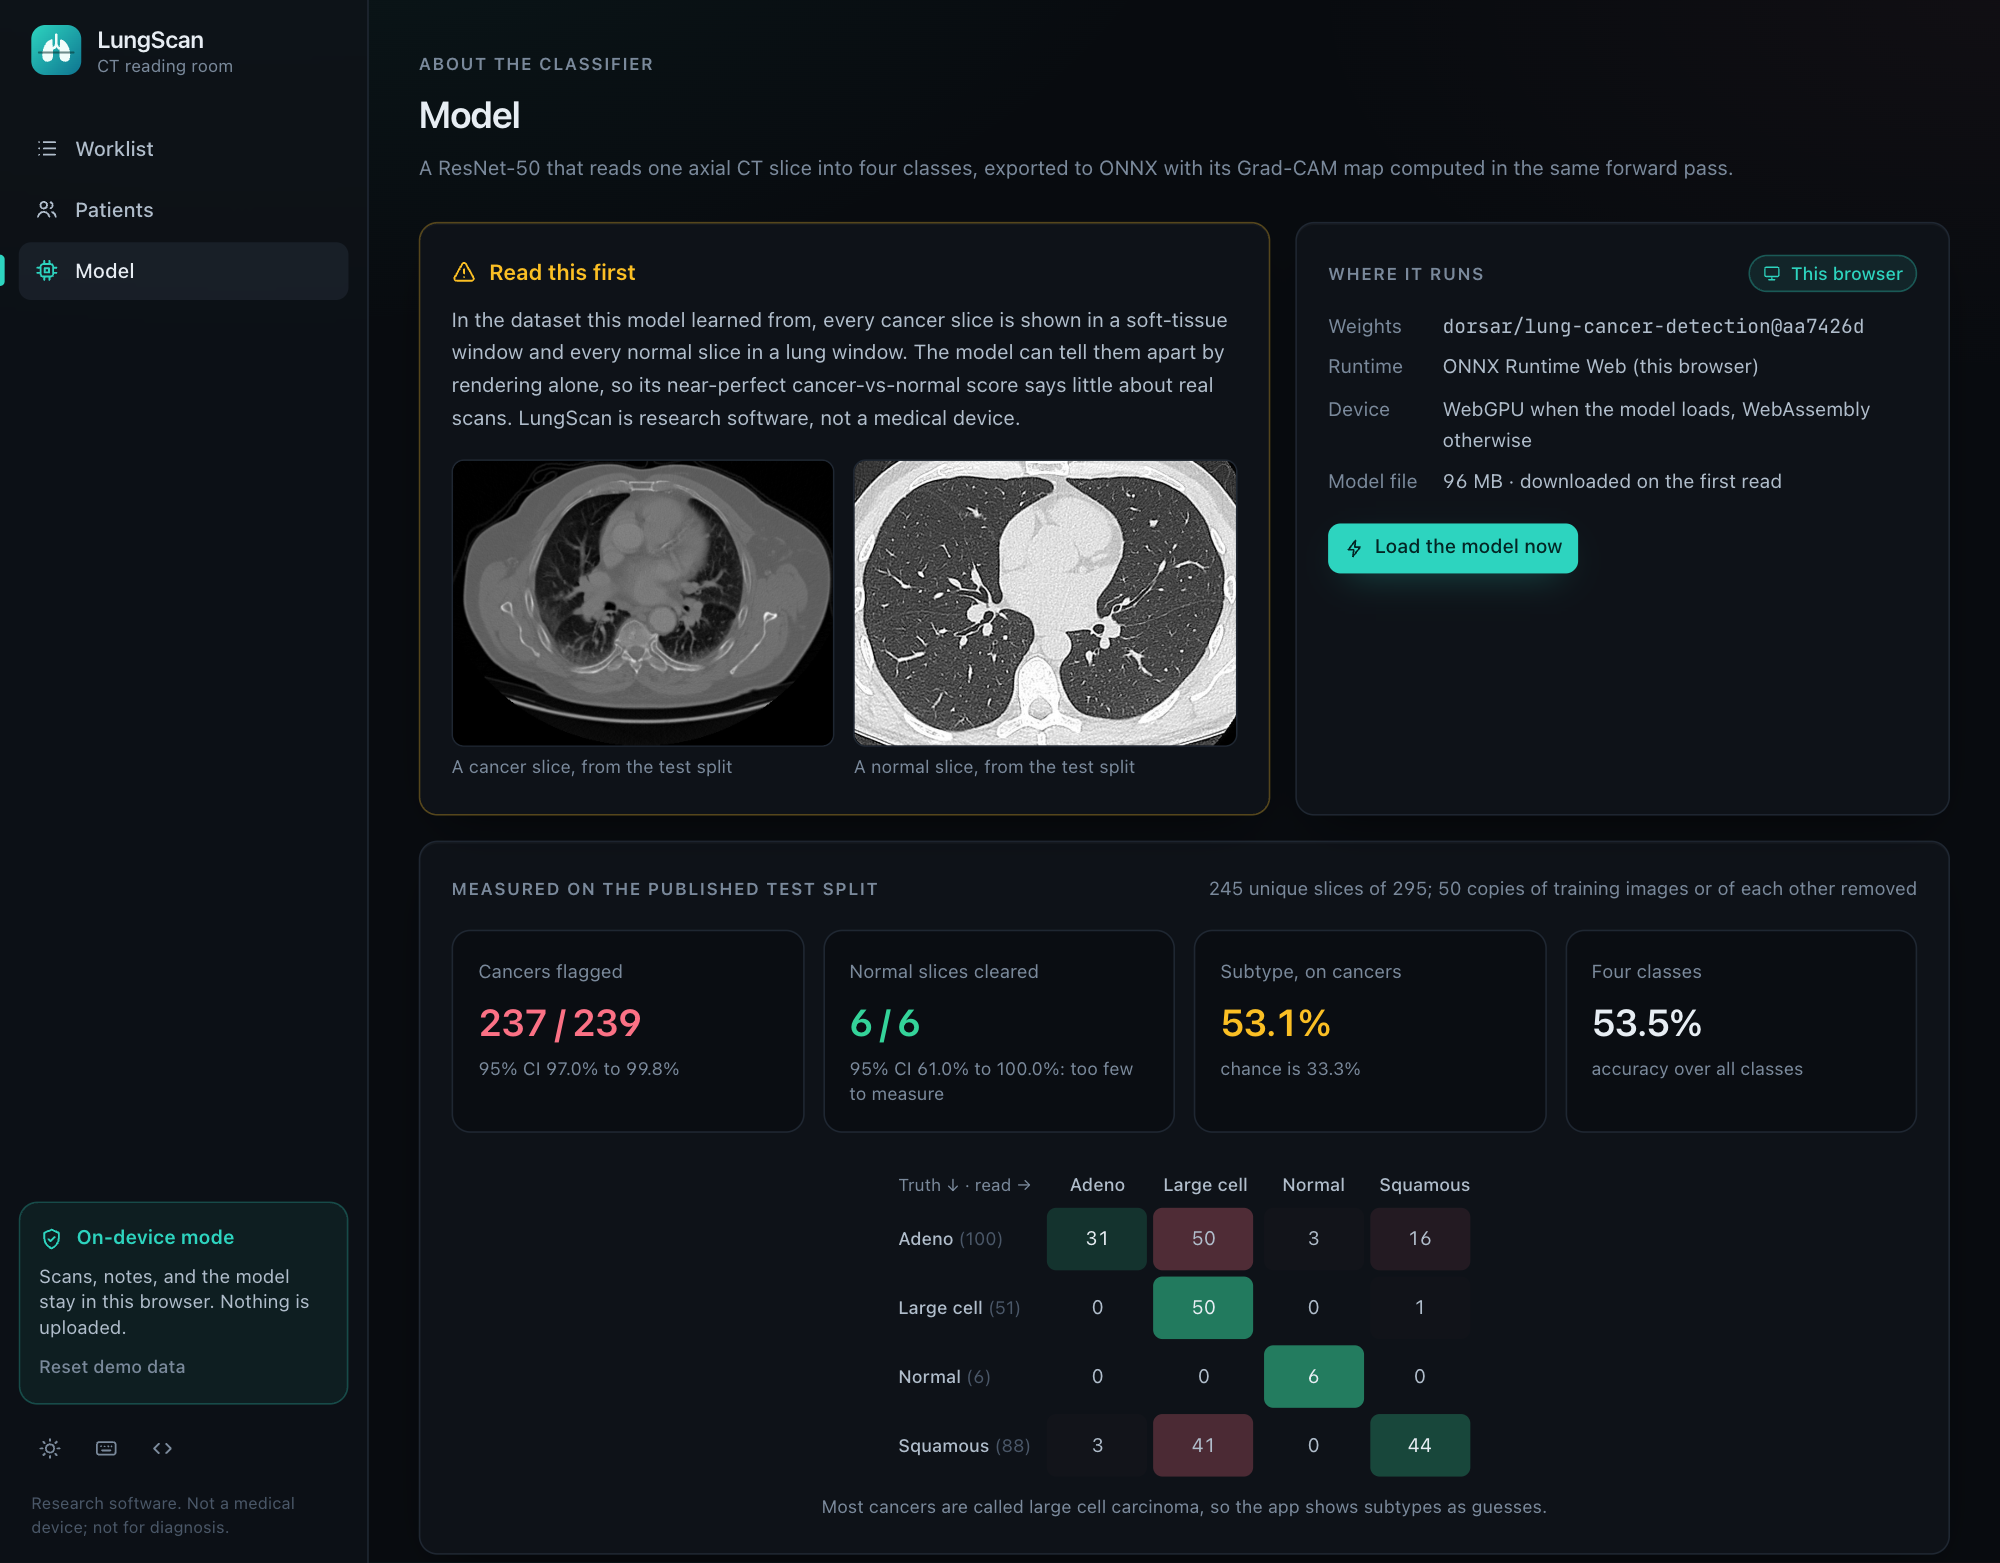
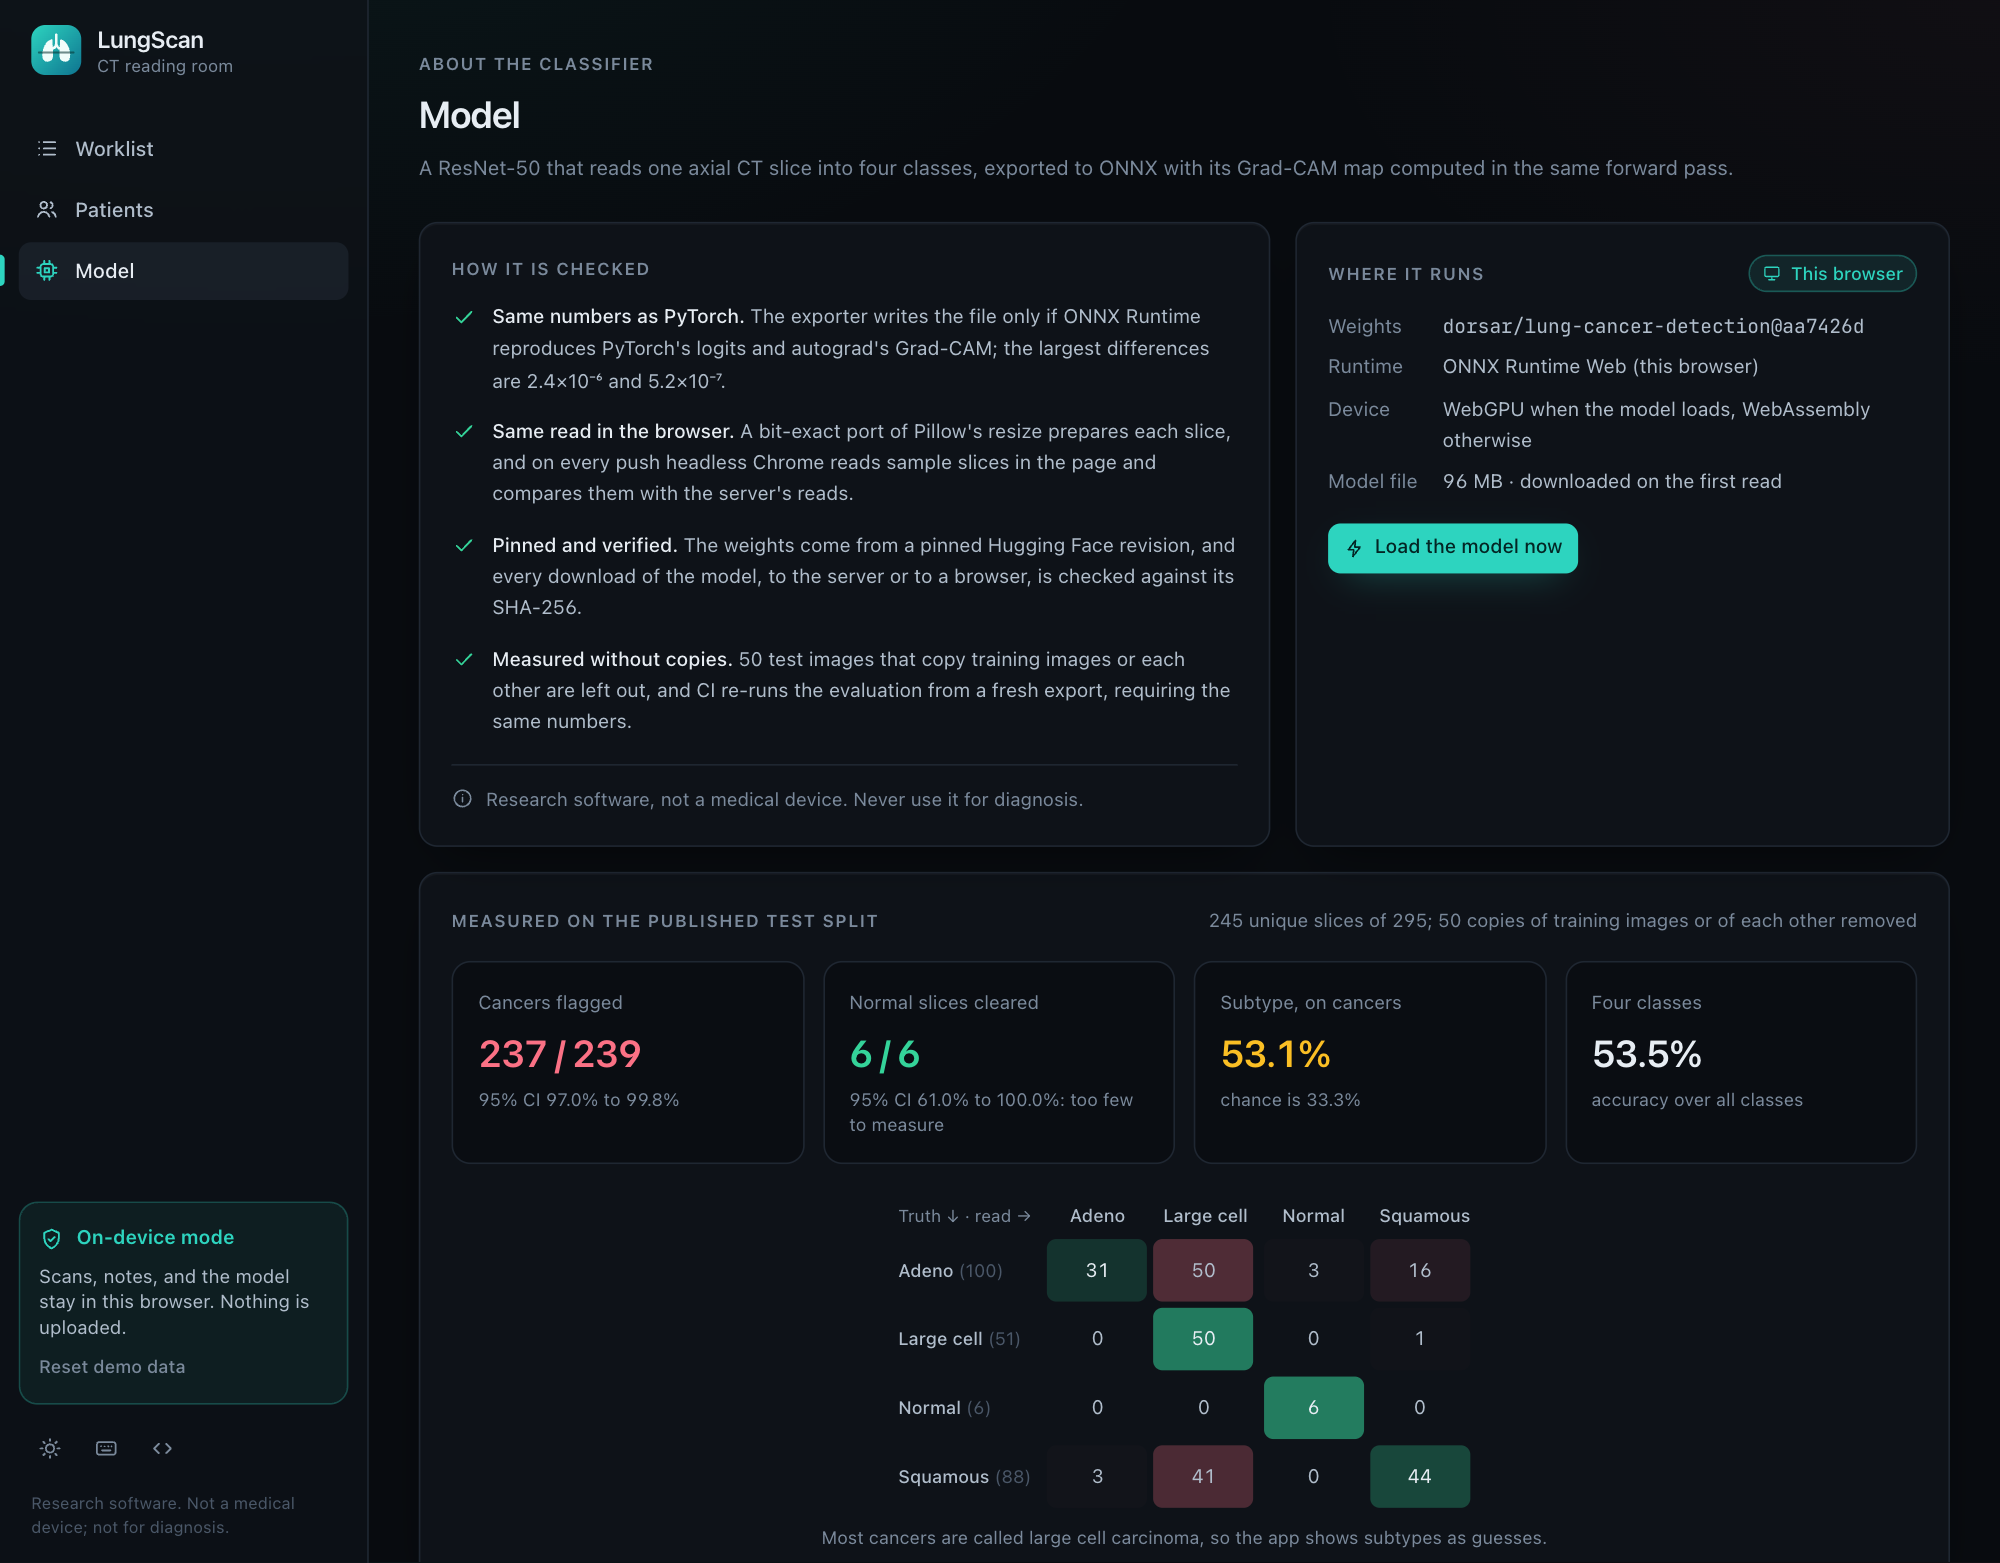
fix: Stop claiming the classifier relies on how slices were rendered
The README, the model card, and the model page said the classifier most
likely separates cancer from normal slices by their rendering. No
experiment tested that, so the claim goes.

The model page's warning card becomes "How it is checked": the export's
match with PyTorch and autograd, the bit-exact preprocessing and the
in-page reads compared with the server's, the pinned weights and SHA-256
checks, and the deduplicated evaluation. The research-software notice
stays on the page, in the README, and in the model card.

The README's results section becomes "Measured performance", and its
limits keep to what was measured: one public dataset of 2D slices, six
normal slices, and the subtype's accuracy. The model page screenshot is
retaken.

diff --git a/frontend/src/app/model/page.tsx b/frontend/src/app/model/page.tsx
@@ -8,7 +8,7 @@ import Icon from "@/components/ui/Icon";
 import Spinner from "@/components/ui/Spinner";
 import { Chip } from "@/components/ui/Status";
 import { api, type ModelStatus } from "@/lib/api";
-import { REPO_URL, RUNTIME, asset } from "@/lib/config";
+import { REPO_URL, RUNTIME } from "@/lib/config";
 import { megabytes, percent } from "@/lib/format";
 import { useEvaluation } from "@/lib/hooks";
 import { engine, type EngineProgress } from "@/lib/inference/engine";
@@ -150,6 +150,48 @@ function Runtime() {
   );
 }
 
+function Checks({ removed }: { removed: number | null }) {
+  const checks = [
+    [
+      "Same numbers as PyTorch",
+      "The exporter writes the file only if ONNX Runtime reproduces PyTorch's logits and autograd's Grad-CAM; the largest differences are 2.4×10⁻⁶ and 5.2×10⁻⁷.",
+    ],
+    [
+      "Same read in the browser",
+      "A bit-exact port of Pillow's resize prepares each slice, and on every push headless Chrome reads sample slices in the page and compares them with the server's reads.",
+    ],
+    [
+      "Pinned and verified",
+      "The weights come from a pinned Hugging Face revision, and every download of the model, to the server or to a browser, is checked against its SHA-256.",
+    ],
+    [
+      "Measured without copies",
+      `${removed ?? "The"} test images that copy training images or each other are left out, and CI re-runs the evaluation from a fresh export, requiring the same numbers.`,
+    ],
+  ];
+
+  return (
+    <section className="panel p-5">
+      <h2 className="eyebrow">How it is checked</h2>
+      <ul className="mt-3 space-y-3 text-[12.5px] leading-relaxed text-ink-2">
+        {checks.map(([title, text]) => (
+          <li key={title} className="flex gap-2.5">
+            <Icon name="check" className="mt-0.5 h-4 w-4 flex-none text-clear" />
+            <span>
+              <span className="font-medium text-ink">{title}. </span>
+              {text}
+            </span>
+          </li>
+        ))}
+      </ul>
+      <p className="mt-4 flex items-center gap-2 border-t border-line pt-3 text-[12px] text-muted">
+        <Icon name="info" className="h-3.5 w-3.5 flex-none" />
+        Research software, not a medical device. Never use it for diagnosis.
+      </p>
+    </section>
+  );
+}
+
 export default function ModelPage() {
   const evaluation = useEvaluation();
   const clean = evaluation?.clean_test;
@@ -167,35 +209,7 @@ export default function ModelPage() {
       </PageHeader>
 
       <div className="mt-6 grid gap-4 lg:grid-cols-[1.3fr_1fr]">
-        <section className="panel border-caution/30 p-5">
-          <h2 className="flex items-center gap-2 text-[14px] font-semibold text-caution">
-            <Icon name="alert" /> Read this first
-          </h2>
-          <p className="mt-2 text-[13px] leading-relaxed text-ink-2">
-            In the dataset this model learned from, every cancer slice is shown in a soft-tissue
-            window and every normal slice in a lung window. The model can tell them apart by
-            rendering alone, so its near-perfect cancer-vs-normal score says little about real
-            scans. LungScan is research software, not a medical device.
-          </p>
-          <div className="mt-4 grid grid-cols-2 gap-3">
-            {[
-              ["sample-02", "A cancer slice"],
-              ["sample-04", "A normal slice"],
-            ].map(([id, caption]) => (
-              <figure key={id}>
-                {/* eslint-disable-next-line @next/next/no-img-element -- static sample */}
-                <img
-                  src={asset(`samples/images/${id}.png`)}
-                  alt={caption}
-                  className="aspect-[4/3] w-full rounded-lg border border-line bg-viewer object-cover"
-                />
-                <figcaption className="mt-1 text-[11.5px] text-muted">
-                  {caption}, from the test split
-                </figcaption>
-              </figure>
-            ))}
-          </div>
-        </section>
+        <Checks removed={evaluation ? removed : null} />
         <Runtime />
       </div>
 

diff --git a/README.md b/README.md
@@ -14,7 +14,7 @@
 LungScan is a reading room for lung CT: a worklist, a PACS-style viewer, and a model that reads each axial slice for cancer and shows where its evidence lies. The model is a ResNet-50 exported to ONNX with its Grad-CAM map computed in the same forward pass, so one file serves both ways the app runs: behind a FastAPI server with ONNX Runtime, or entirely in the browser with ONNX Runtime Web, where scans never leave the page. The repository also holds the 3D nodule segmentation research of the SENSERA report, which reaches a tumor Dice of 0.73 with VISTA-3D and a false-positive classifier.
 
 > [!IMPORTANT]
-> LungScan is research software, not a medical device. Its classifier separates this dataset's cancer slices from its normal ones almost perfectly, most likely by how the slices were rendered rather than by what they show ([details](#what-the-model-can-and-cannot-do)). Never use it for diagnosis.
+> LungScan is research software, not a medical device. Never use it for diagnosis.
 
 <p align="center">
   <a href="https://adriantrill.github.io/LungScan/"><img src="docs/assets/demo.gif" width="857" alt="The live demo: a sample study with its precomputed read, then a read in the page, where the model is downloaded, checked, and run on WebGPU, and Grad-CAM marks the region that raised the cancer score"></a>
@@ -29,10 +29,10 @@ LungScan is a reading room for lung CT: a worklist, a PACS-style viewer, and a m
 | **[In your browser](#in-your-browser)** | The whole app in the page: IndexedDB for the data, ONNX Runtime Web on WebGPU or WebAssembly for the model, which downloads once | The same run reads slices in the page and compares them with the server's reads |
 | **[One model, two runtimes](#one-model-two-runtimes)** | One ONNX file on the server and in the browser; the browser's preprocessing is a bit-exact port of Pillow 13's resize | Jest tests against fixtures written by the server's own code |
 | **[Grad-CAM in one pass](#grad-cam-in-one-forward-pass)** | The classifier head's gradient, computed inside the graph, so the browser needs no backward pass | The export must match autograd's Grad-CAM before it is written |
-| **[Measured, not quoted](#what-the-model-can-and-cannot-do)** | An evaluation on the published test split, after removing the 50 test images that copy training images or each other | CI re-runs it from a fresh export and requires the same numbers |
+| **[Measured, not quoted](#measured-performance)** | An evaluation on the published test split, after removing the 50 test images that copy training images or each other | CI re-runs it from a fresh export and requires the same numbers |
 | **[3D segmentation research](#3d-segmentation-research)** | VISTA-3D with a "Shadow Mining" false-positive classifier, and radiogenomic biomarker prediction | Reported in the SENSERA report |
 
-**Contents:** [Try it](#try-it) · [Reading room](#the-reading-room) · [In your browser](#in-your-browser) · [Two runtimes](#one-model-two-runtimes) · [Grad-CAM](#grad-cam-in-one-forward-pass) · [Limits](#what-the-model-can-and-cannot-do) · [Research](#3d-segmentation-research) · [Layout](#repository-layout) · [Run locally](#run-it-locally) · [API](#api) · [Tests and CI](#tests-and-ci) · [Credits](#credits)
+**Contents:** [Try it](#try-it) · [Reading room](#the-reading-room) · [In your browser](#in-your-browser) · [Two runtimes](#one-model-two-runtimes) · [Grad-CAM](#grad-cam-in-one-forward-pass) · [Performance](#measured-performance) · [Research](#3d-segmentation-research) · [Layout](#repository-layout) · [Run locally](#run-it-locally) · [API](#api) · [Tests and CI](#tests-and-ci) · [Credits](#credits)
 
 ## Try it
 
@@ -118,7 +118,7 @@ Grad-CAM needs the gradient of a score with respect to the last feature maps, an
 
 [`ExplainedNet`](backend/tools/network.py) adds these steps to the network before export. The exporter refuses to write the file unless ONNX Runtime matches PyTorch's logits (largest difference 2.4×10⁻⁶) and the map matches autograd's Grad-CAM (5.2×10⁻⁷), and a unit test checks the identity on random weights. The model card, [docs/MODEL.md](docs/MODEL.md), has the details.
 
-## What the model can and cannot do
+## Measured performance
 
 The classifier is [dorsar/lung-cancer-detection](https://huggingface.co/dorsar/lung-cancer-detection) (MIT), a ResNet-50 fine-tuned on 2D slices in four classes. [`tools/evaluate.py`](backend/tools/evaluate.py) runs the app's own pipeline on the test split published with it, and writes [model/evaluation.json](model/evaluation.json).
 
@@ -131,10 +131,10 @@ The classifier is [dorsar/lung-cancer-detection](https://huggingface.co/dorsar/l
 | Subtype, on cancer slices | 53.1%, where chance is 33.3% |
 | Four classes | 53.5% |
 
-**The near-perfect separation is most likely a shortcut.** Every cancer slice in this dataset is shown in a soft-tissue window, with grey lungs, and every normal slice in a lung window, with black ones. Some normal slices carry watermarks. A classifier can tell them apart by rendering alone. LungScan says so on its model page, shows subtypes only as guesses, and labels each sample's read against the truth, misses included.
+**What the numbers leave open.** Every image comes from this one public dataset of 2D, 8-bit slices, so these results say nothing yet about scans from other hospitals or scanners, and six unique normal slices are too few to measure specificity. The subtype is right about half the time; LungScan shows it as a guess beside its measured accuracy, and labels each sample's read against the truth, misses included.
 
 <p align="center">
-  <img src="docs/assets/model.png" width="857" alt="The model page: a warning about the rendering shortcut beside a cancer slice in a soft-tissue window and a normal slice in a lung window, where the model runs, and the measured performance with its confidence intervals and confusion matrix">
+  <img src="docs/assets/model.png" width="857" alt="The model page: how the model is checked, where it runs, and the measured performance with its confidence intervals and confusion matrix">
 </p>
 
 The preprocessing also changed. The previous backend stretched slices to 224×224, normalized every channel with the red channel's statistics, and classified 224-pixel patches with a sliding window. On the validation split, the training pipeline scores 0.667 four-class accuracy against 0.500 for that pipeline, and on the whole test split the old patch scheme flagged 4 of the 54 normal slices.
@@ -273,7 +273,7 @@ cd frontend && node scripts/ui-check.mjs out    # the static site, in headless C
 ## Next steps
 
 - DICOM input, with windows in Hounsfield units instead of 8-bit renders.
-- A classifier trained on volumes with patient-level splits, instead of a 2D model on a dataset with a rendering shortcut; the research's segmentation models are the natural candidates.
+- A classifier trained on volumes with patient-level splits and tested on scans from other sources, instead of a 2D model on one public dataset; the research's segmentation models are the natural candidates.
 - A smaller download: an int8 or fp16 model for the browser, checked against the full one.
 
 ## Credits

diff --git a/docs/MODEL.md b/docs/MODEL.md
@@ -2,8 +2,8 @@
 
 LungScan reads single axial CT slices with a ResNet-50 classifier, and shows where its evidence for cancer lies with Grad-CAM. This page describes the network, how the app runs it, how its output becomes a read, and how well it does, measured on the images it was published with.
 
-> [!WARNING]
-> The classifier separates this dataset's cancer slices from its normal slices almost perfectly, but most likely by how the slices were rendered rather than by what they show (see [Limitations](#limitations)). Treat every read as a demonstration of the software, never as a diagnosis.
+> [!IMPORTANT]
+> LungScan is research software, not a medical device. Treat every read as a demonstration of the software, never as a diagnosis (see [Limitations](#limitations)).
 
 ## The network
 
@@ -77,10 +77,10 @@ The model calls most cancers large cell carcinoma, so the app shows the subtype 
 
 ## Limitations
 
-- **A shortcut in the data.** Every cancer slice in this dataset is shown in a soft-tissue window (grey lungs), and every normal slice in a lung window (black lungs), some with watermarks. A classifier can separate them by rendering alone, so the cancer-vs-normal results above say little about real scans.
 - **Six normal slices.** With six unique normal slices, specificity is barely measured: its 95% interval runs from 61% to 100%.
 - **Near-duplicates and patients.** Copies are removed, but neighbouring slices of the same patient may sit in different splits; the dataset has no patient IDs to check.
-- **2D, 8-bit slices.** The model sees one rendered slice, not a volume in Hounsfield units, and the regions come from a 7×7 map.
+- **2D, 8-bit slices.** The model sees one 8-bit image of a slice, not a volume in Hounsfield units, and the regions come from a 7×7 map.
+- **One public dataset.** The model was trained, validated, and tested on slices from one public collection, so these results say nothing yet about scans from other hospitals or scanners.
 
 The [segmentation research](../AI%20model/README.md) in this repository works on 3D volumes and is a separate line of work.
 
